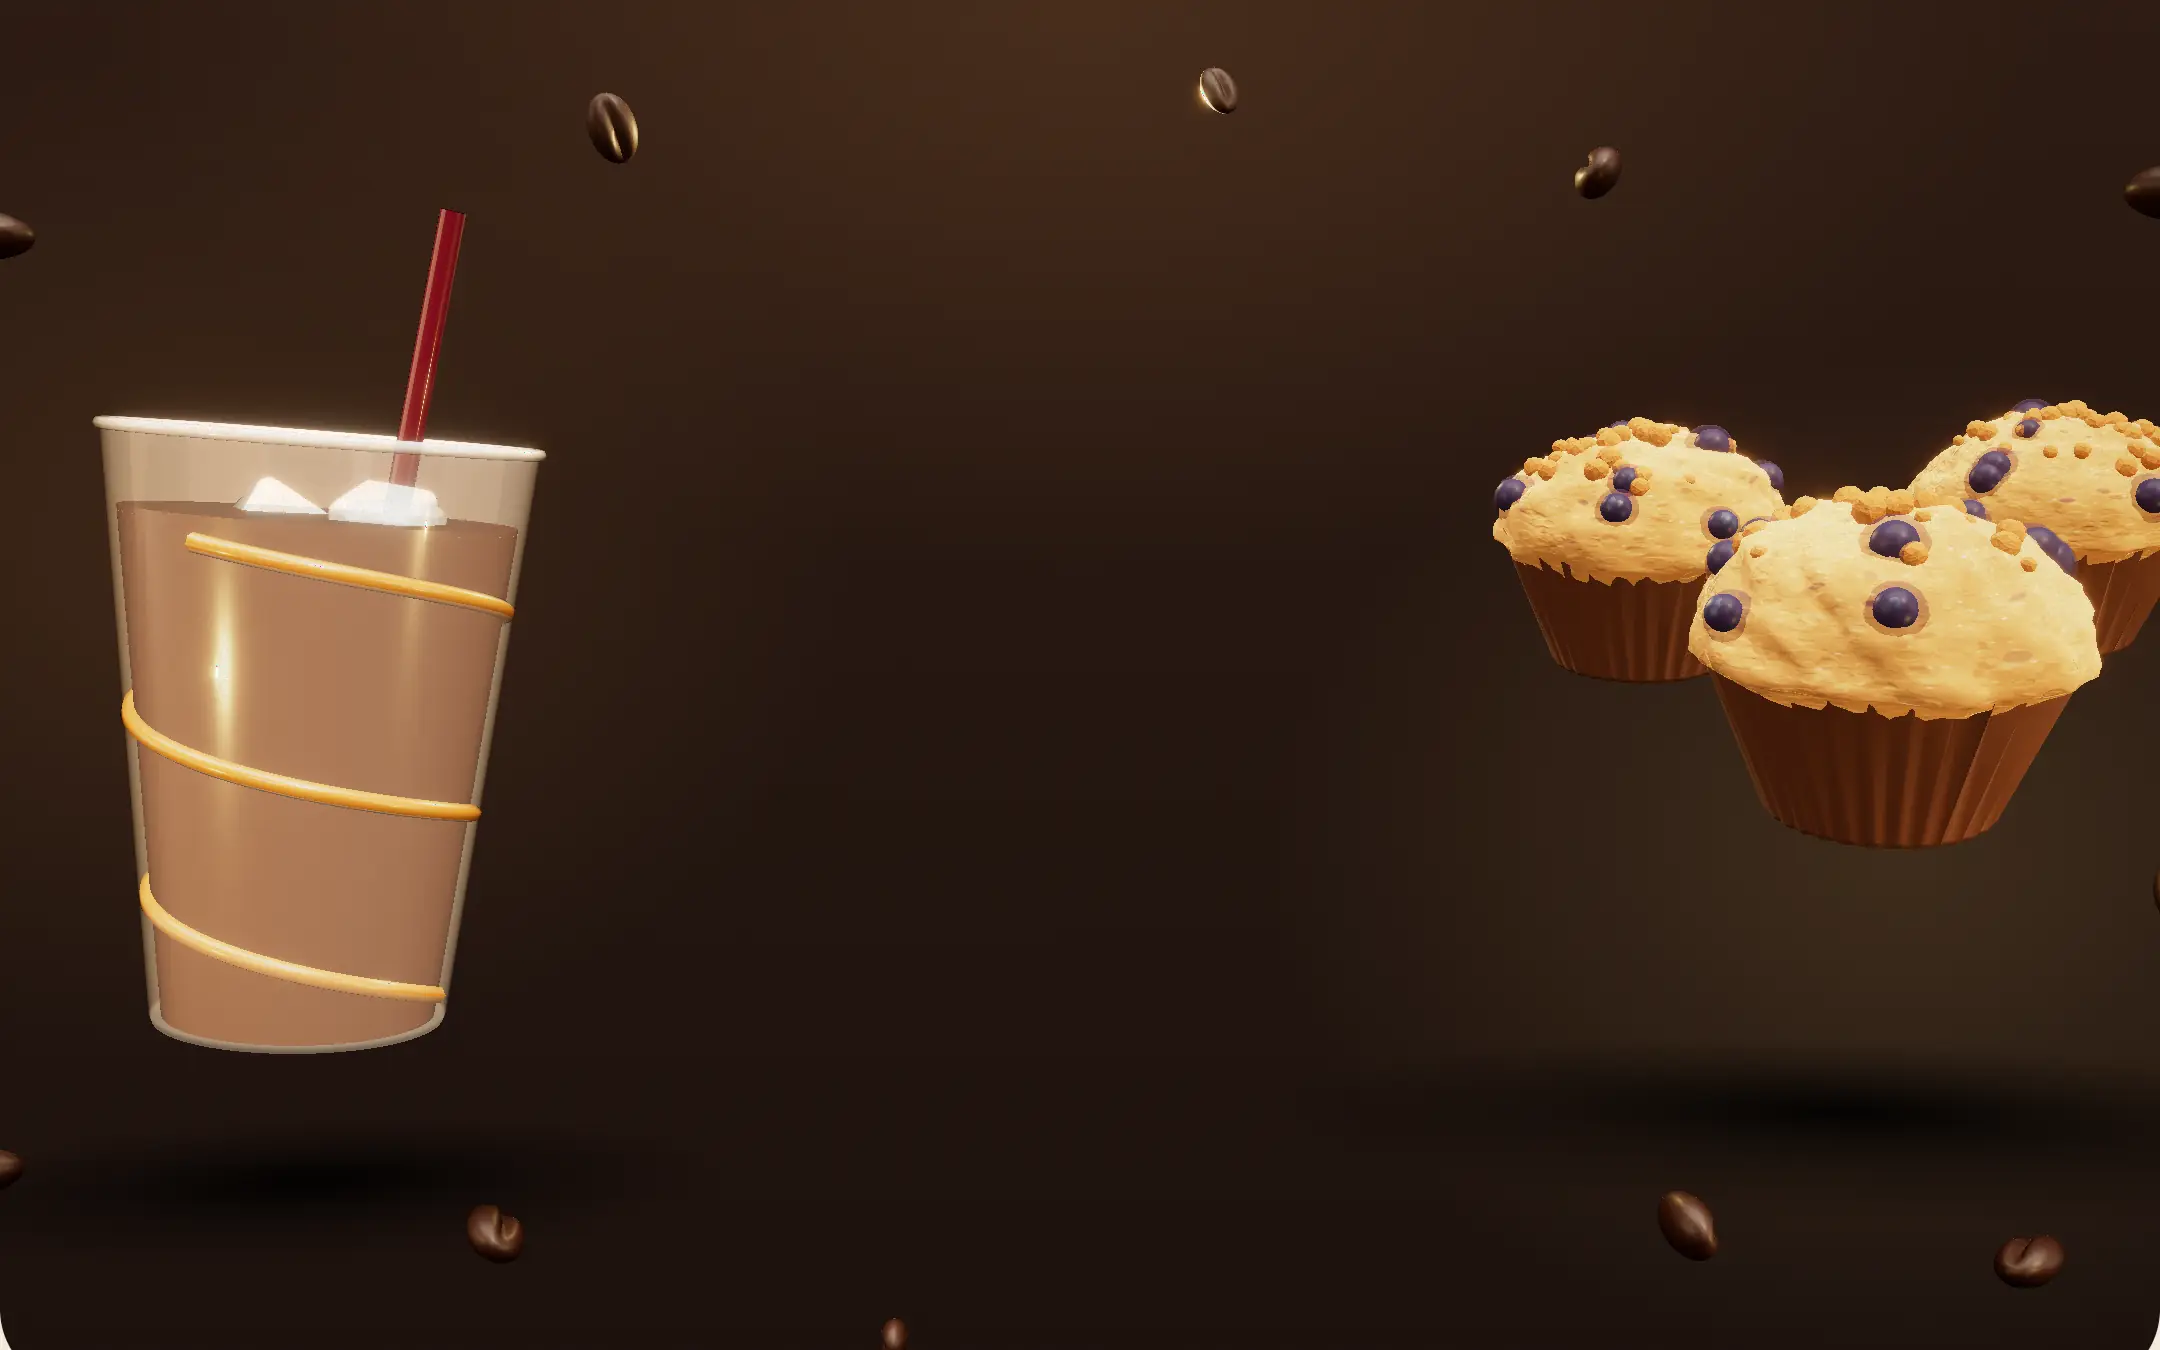
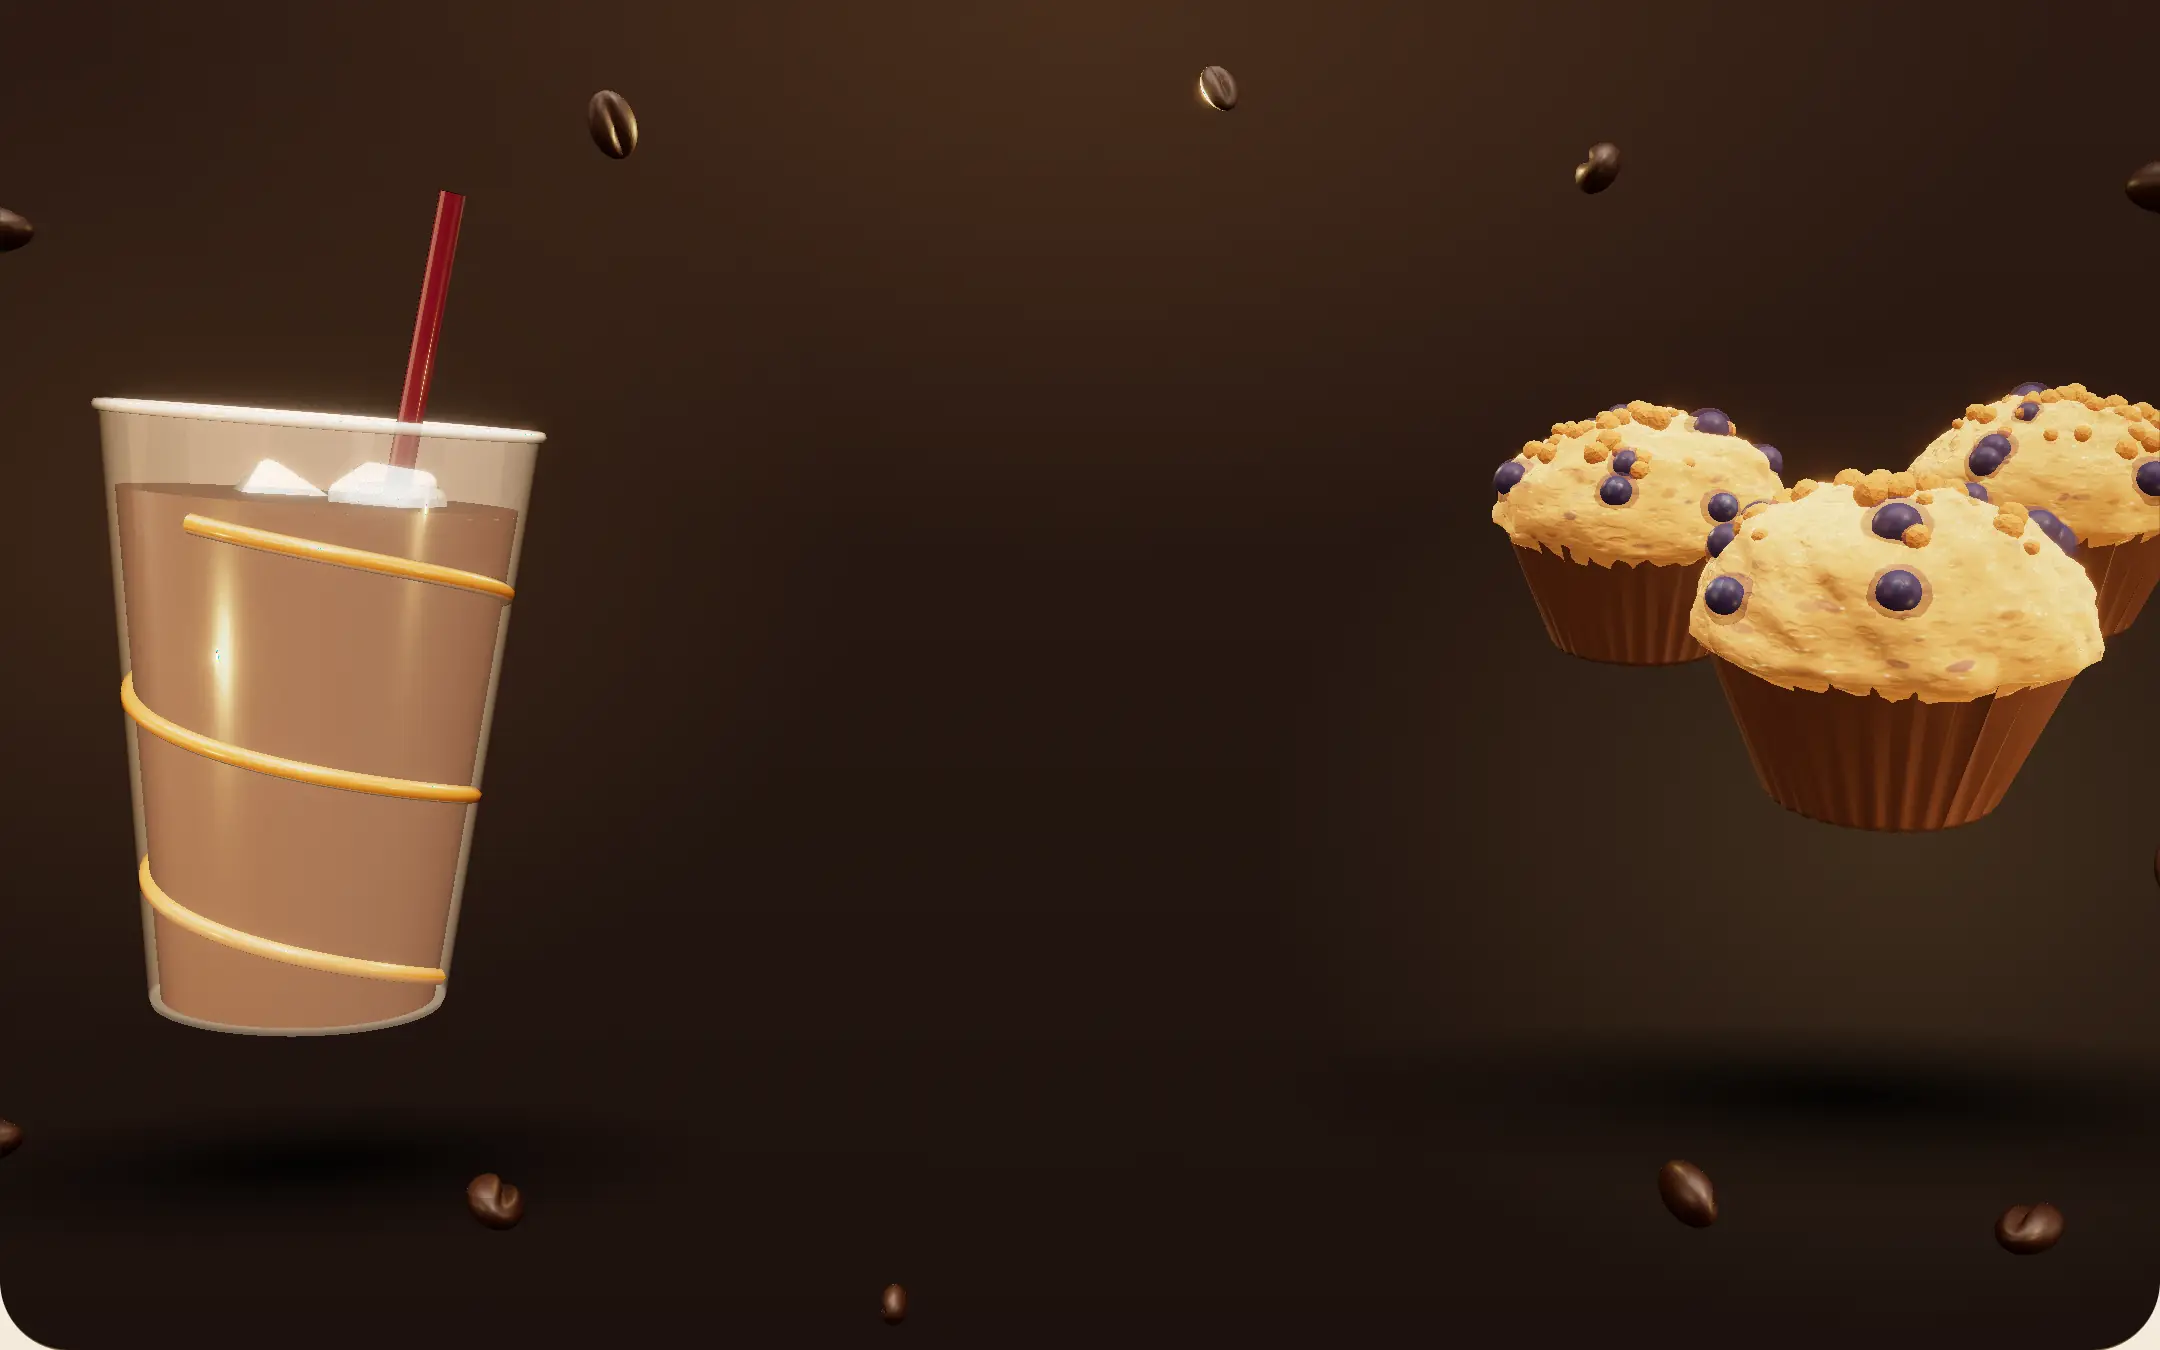
Checkpoint before restructure

diff --git a/src/components/three/HeroScene.tsx b/src/components/three/HeroScene.tsx
@@ -300,9 +300,36 @@ const BEANS_STRIP: [number, number, number, number][] = [
   [-0.46, 0.3, -1, 0.26], [0.0, 0.3, -1.5, 0.24], [0.02, -0.28, 0, 0.22], [0.46, 0.28, -1, 0.24], [-0.44, -0.34, -0.5, 0.2],
 ];
 
+/**
+ * The scene is laid out once, for a fixed reference frame, then cropped to the
+ * canvas like a CSS `object-fit: cover` photo. The stills in public/hero/poster
+ * are captures of exactly this reference frame and are shown with object-cover,
+ * so the still and the live scene line up on every screen size.
+ * Capture sizes (scripts/capture-hero-stills.mjs) must keep these aspect ratios.
+ */
+export const REF_ASPECT: Record<Mode, number> = { wide: 1600 / 1000, strip: 390 / 220 };
+const CAM_Z = 8;
+const BASE_FOV = 35;
+const REF_H = 2 * CAM_Z * Math.tan(THREE.MathUtils.degToRad(BASE_FOV / 2));
+
+/** World size of the reference frame, and the camera set to cover the canvas with it. */
+function useRefFrame(mode: Mode) {
+  const { size, camera } = useThree();
+  const ref = { width: REF_H * REF_ASPECT[mode], height: REF_H };
+  const aspect = size.width / Math.max(1, size.height);
+  useEffect(() => {
+    const cam = camera as THREE.PerspectiveCamera;
+    // Wider than the reference: show its full width and crop top and bottom. Narrower: crop the sides.
+    const visibleH = aspect >= REF_ASPECT[mode] ? ref.width / aspect : REF_H;
+    cam.fov = THREE.MathUtils.radToDeg(2 * Math.atan(visibleH / 2 / CAM_Z));
+    cam.updateProjectionMatrix();
+  }, [aspect, camera, mode, ref.width]);
+  return ref;
+}
+
 function Beans({ motion, mode }: { motion: MotionRef; mode: Mode }) {
   const group = useRef<THREE.Group>(null);
-  const { viewport } = useThree();
+  const viewport = useRefFrame(mode);
   const geo = useMemo(() => beanGeometry(mode === "wide" ? 28 : 14), [mode]);
   const bump = useMemo(() => crumbBump("bean"), []);
   const list = mode === "wide" ? BEANS_WIDE : BEANS_STRIP;
@@ -375,8 +402,8 @@ function Swap({ show, children }: { show: boolean; children: ReactNode }) {
 function Stage({ motion, mode, shop }: { motion: MotionRef; mode: Mode; shop: Shop }) {
   const left = useRef<THREE.Group>(null);
   const right = useRef<THREE.Group>(null);
-  const { viewport } = useThree();
   const wide = mode === "wide";
+  const viewport = useRefFrame(mode);
   const s = wide ? clamp(viewport.width / 8.4, 0.6, 1.1) : 1.22;
   const x = wide ? viewport.width * 0.355 : Math.min(viewport.width * 0.27, 2.5);
 
@@ -474,7 +501,7 @@ export default function HeroScene({ motion, mode, shop, onReady: onLive }: { mot
       <Canvas
         frameloop={!ready ? "never" : freeze ? "demand" : live ? "always" : "never"}
         dpr={[1, 1.5]}
-        camera={{ position: [0, 0, 8], fov: 35, near: 0.1, far: 40 }}
+        camera={{ position: [0, 0, CAM_Z], fov: BASE_FOV, near: 0.1, far: 40 }}
         gl={{ alpha: true, antialias: true, powerPreference: "high-performance" }}
         style={{ pointerEvents: "none" }}
       >

diff --git a/src/components/OpenBadge.tsx b/src/components/OpenBadge.tsx
@@ -7,8 +7,8 @@ import { useNow } from "./providers";
 
 /**
  * "Open now · closes 3pm", worked out live in the shops' own time zone.
- * Before the page has mounted it shows the plain opening hours instead, so
- * nothing is guessed on the server.
+ * Before the page has mounted it reserves the space with the (hidden) opening
+ * hours, so nothing is guessed on the server and nothing jumps.
  */
 export default function OpenBadge({
   store,
@@ -34,7 +34,9 @@ export default function OpenBadge({
           animate={{ opacity: 1, filter: "blur(0px)" }}
           exit={{ opacity: 0, filter: "blur(3px)" }}
           transition={{ duration: 0.18, ease: [0.23, 1, 0.32, 1] }}
-          className="inline-flex items-center gap-2 whitespace-nowrap"
+          // Until the visitor's clock is known, hold the space but show nothing, so the
+          // line fades in once as "Open now" or "Closed" instead of visibly swapping text.
+          className={`inline-flex items-center gap-2 whitespace-nowrap ${status ? "" : "invisible"}`}
         >
           <span
             aria-hidden
